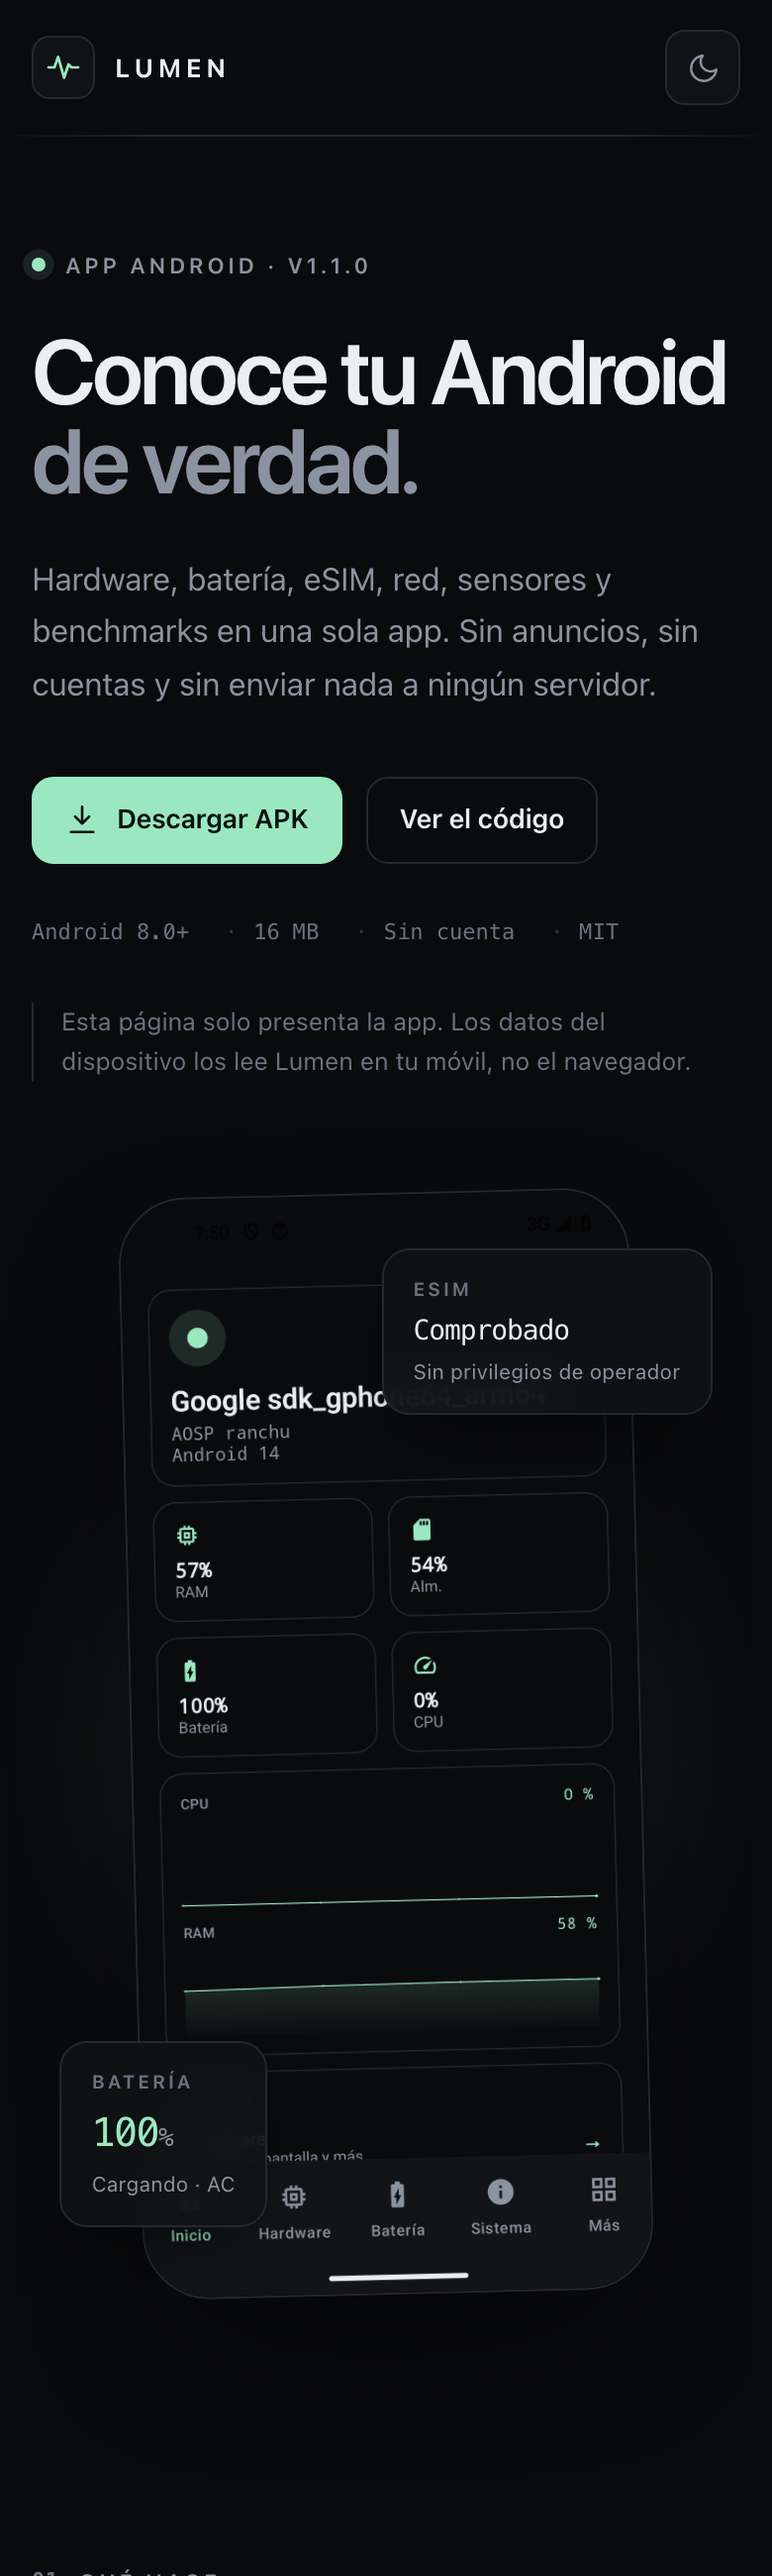
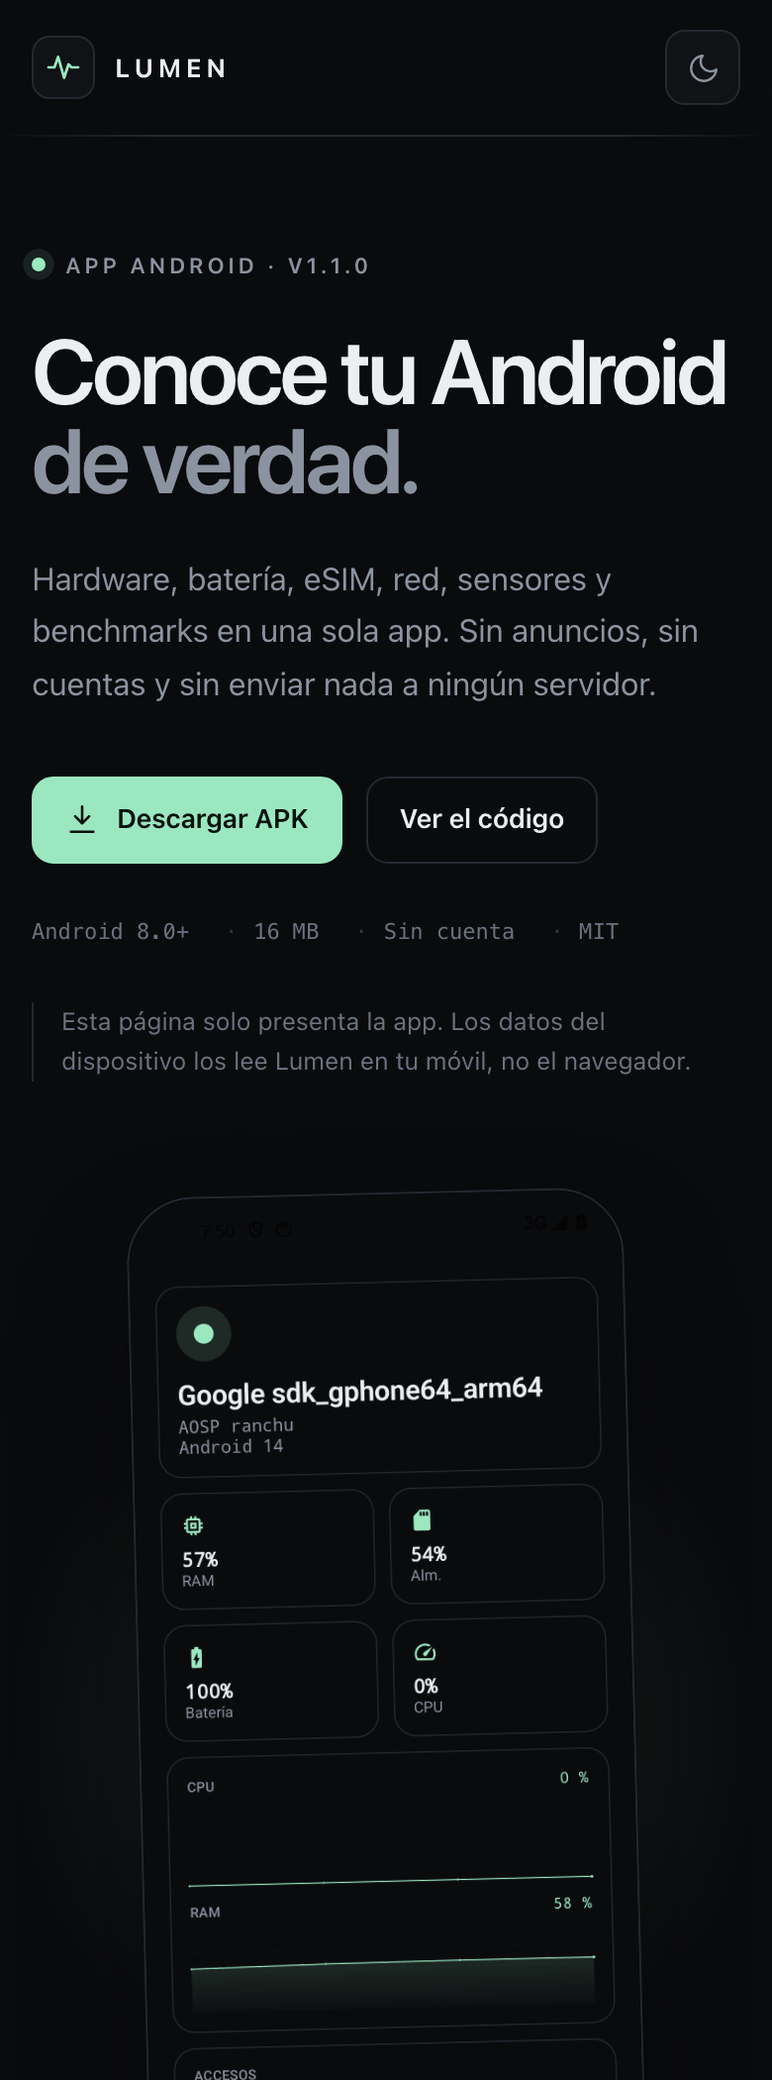
web: hero móvil limpio (sin tarjetas superpuestas) y capturas nuevas

diff --git a/docs/styles.css b/docs/styles.css
@@ -699,8 +699,7 @@ code {
   .hero-copy { max-width: 640px; }
   .hero-art { min-height: 520px; }
   .phone-hero { width: min(280px, 72%); }
-  .float-battery { left: 4%; bottom: 64px; }
-  .float-esim { right: 4%; top: 52px; }
+  .float-card { display: none; }
   .install { grid-template-columns: 1fr; }
 }
 
@@ -729,10 +728,8 @@ code {
 
 @media (max-width: 460px) {
   .header-actions .btn { display: none; }
-  .hero-art { min-height: 470px; }
-  .float-esim { top: 28px; }
-  .float-battery { bottom: 34px; }
-  .float-card strong { font-size: 20px; }
+  .hero-art { min-height: 0; }
+  .phone-hero { width: min(252px, 70%); }
   .meta-row { font-size: 11px; }
   .btn { height: 44px; padding: 0 16px; font-size: 13.5px; }
   .screen { flex-basis: 78%; }

diff --git a/web/styles.css b/web/styles.css
@@ -699,8 +699,7 @@ code {
   .hero-copy { max-width: 640px; }
   .hero-art { min-height: 520px; }
   .phone-hero { width: min(280px, 72%); }
-  .float-battery { left: 4%; bottom: 64px; }
-  .float-esim { right: 4%; top: 52px; }
+  .float-card { display: none; }
   .install { grid-template-columns: 1fr; }
 }
 
@@ -729,10 +728,8 @@ code {
 
 @media (max-width: 460px) {
   .header-actions .btn { display: none; }
-  .hero-art { min-height: 470px; }
-  .float-esim { top: 28px; }
-  .float-battery { bottom: 34px; }
-  .float-card strong { font-size: 20px; }
+  .hero-art { min-height: 0; }
+  .phone-hero { width: min(252px, 70%); }
   .meta-row { font-size: 11px; }
   .btn { height: 44px; padding: 0 16px; font-size: 13.5px; }
   .screen { flex-basis: 78%; }
